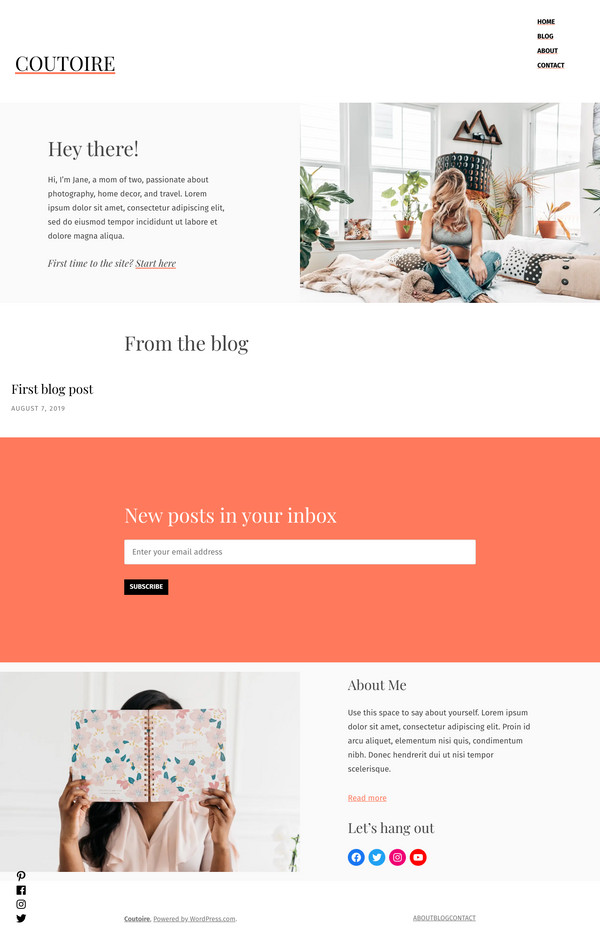
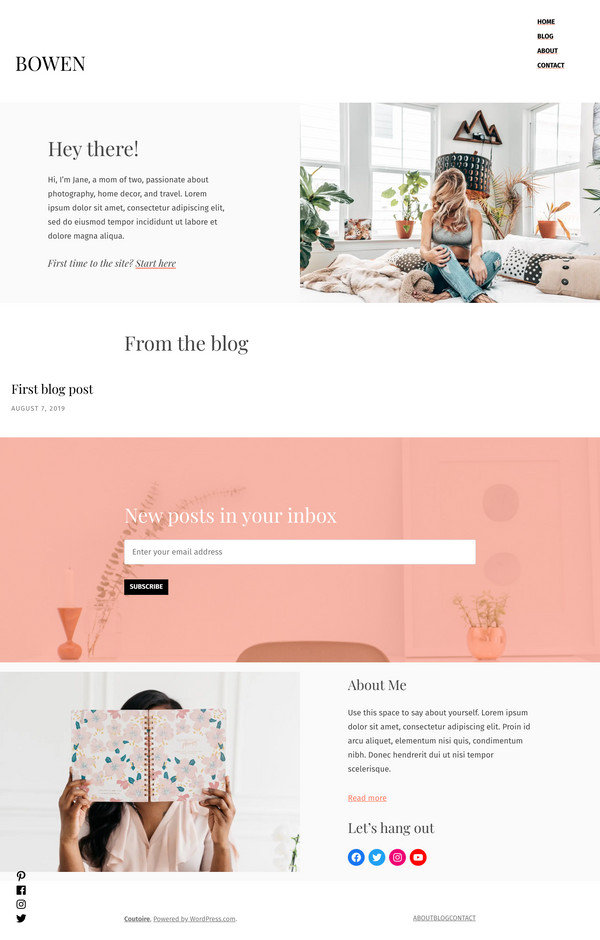
Gutenboarding: regenerate thumbnails for designs (#40788)
* Add site title and additional instructions to bin script

* Fix fonts in demo URL

* Regenerate screenshots

Using these preview URLs:
```
https://public-api.wordpress.com/rest/v1/template/demo/mayland/vesta/?font_base=Raleway&font_headings=Cabin&site_title=Vesta
https://public-api.wordpress.com/rest/v1/template/demo/rockfield/reynolds/?font_base=Fira%20Sans&font_headings=Playfair%20Display&site_title=Reynolds
https://public-api.wordpress.com/rest/v1/template/demo/maywood/easley/?font_base=Roboto&font_headings=Space%20Mono&site_title=Easley
https://public-api.wordpress.com/rest/v1/template/demo/maywood/maywood2/?font_base=Roboto&font_headings=Space%20Mono&site_title=Camden
https://public-api.wordpress.com/rest/v1/template/demo/coutoire/bowen/?font_base=Fira%20Sans&font_headings=Playfair%20Display&site_title=Bowen
https://public-api.wordpress.com/rest/v1/template/demo/stratford/edison/?font_base=Open%20Sans&font_headings=Chivo&site_title=Edison
https://public-api.wordpress.com/rest/v1/template/demo/mayland/cassel/?font_base=Fira%20Sans&font_headings=Playfair%20Display&site_title=Cassel
https://public-api.wordpress.com/rest/v1/template/demo/alves/overton/?font_base=Raleway&font_headings=Cabin&site_title=Overton
https://public-api.wordpress.com/rest/v1/template/demo/alves/doyle/?font_base=Fira%20Sans&font_headings=Playfair%20Display&site_title=Doyle
[…]

Changed region(s): [[0.0, 0.4628, 1.0, 0.7096], [0.03, 0.0617, 0.18, 0.0926]]

diff --git a/bin/generate-gutenboarding-design-thumbnails.js b/bin/generate-gutenboarding-design-thumbnails.js
@@ -12,6 +12,16 @@
  * (I didn't want to add these to dependencies just for this script since these are kinda heavy ones)
  * https://www.npmjs.com/package/capture-website
  * https://www.npmjs.com/package/sharp
+ *
+ * Ensure browser is installed by removing `PUPPETEER_SKIP_CHROMIUM_DOWNLOAD=true` in `package.json` and run `npm ci`
+ * (maybe there's easier way?)
+ *
+ *
+ * Then convert this file to json:
+ * client/landing/gutenboarding/available-designs.ts
+ * - Rename to .json
+ * - Remove some JS to make it look more like json
+ * - run `npx prettier client/landing/gutenboarding/available-designs.json --write` to fix the rest
  */
 
 const captureWebsite = require( 'capture-website' );
@@ -28,8 +38,9 @@ const viewportWidth = 1280; // Browser width for capturing the screenshot
 
 const getDesignUrl = design => {
 	return wpUrl.addQueryArgs( design.src, {
-		font_headings: design.fonts[ 0 ],
-		font_base: design.fonts[ 1 ],
+		font_base: design.fonts.base,
+		font_headings: design.fonts.headings,
+		site_title: design.title,
 	} );
 };
 
